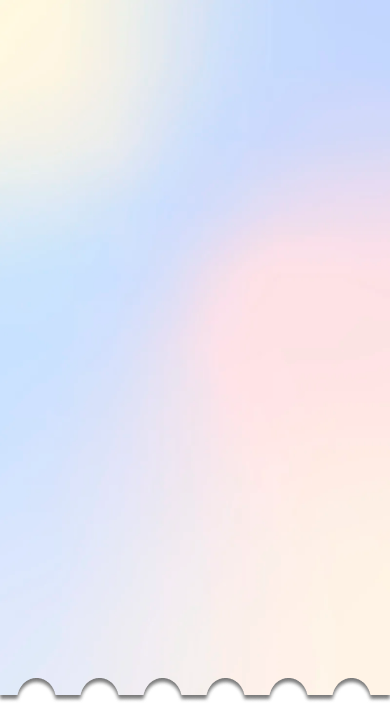
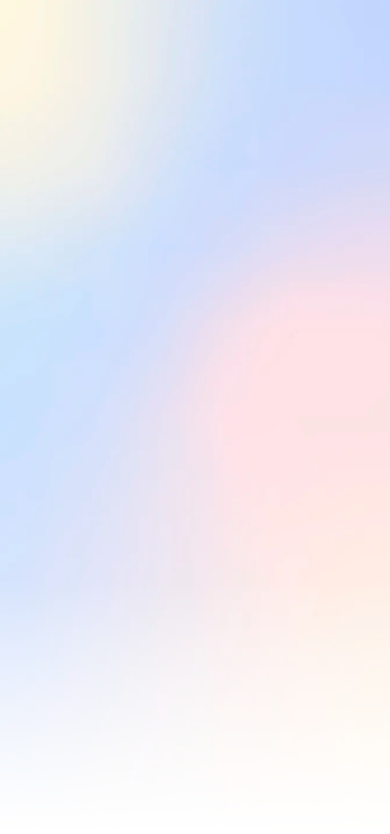
🎨 : 배경 이미지 적용 (미완)

diff --git a/pages/index.js b/pages/index.js
@@ -1,14 +1,17 @@
 // 메인 페이지
 import Head from "next/head";
 import Image from "next/image";
+import styled from "styled-components";
 // 컴포넌트
 import Navbar from "../components/Navbar";
 // 이미지
 import aurora from "../assets/main/aurora.png";
+import shadow from "../assets/main/shadow.svg";
+import paper from "../assets/main/paper.png";
 
 export default function Home() {
   return (
-    <div>
+    <Div>
       <Head>
         <title>Create Next App</title>
         <meta name="description" content="Generated by create next app" />
@@ -16,9 +19,56 @@ export default function Home() {
         <link rel="icon" href="/favicon.ico" />
       </Head>
 
-      <Navbar />
+      <Image
+        src={aurora.src}
+        alt="background"
+        width={390}
+        height={695}
+        className="background"
+      />
 
-      <p>메인 페이지</p>
-    </div>
+      <Image src={shadow.src} alt="shadow" fill className="shadow" />
+
+      <Image
+        src={paper.src}
+        alt="paper"
+        width={390}
+        height={770}
+        className="paper"
+      />
+    </Div>
   );
 }
+
+const Test = styled.div`
+  position: relative;
+
+  width: 100%;
+  height: 695px;
+
+  background-image: url(${aurora.src});
+  background-repeat: no-repeat;
+  background-size: cover;
+`;
+
+const Div = styled.div`
+  position: relative;
+  width: auto;
+  height: auto;
+
+  margin: 0;
+  padding: 0;
+
+  .background {
+    width: 100%;
+  }
+
+  .shadow {
+    transform: translateY(-100px);
+    width: 100%;
+  }
+
+  .paper {
+    width: 100%;
+  }
+`;
